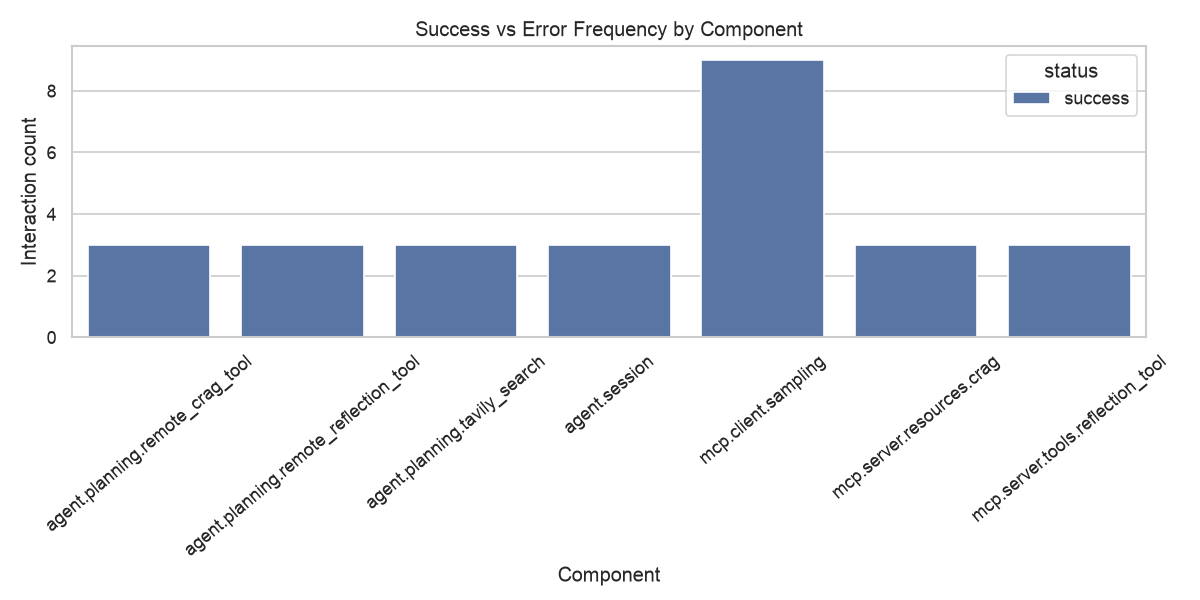
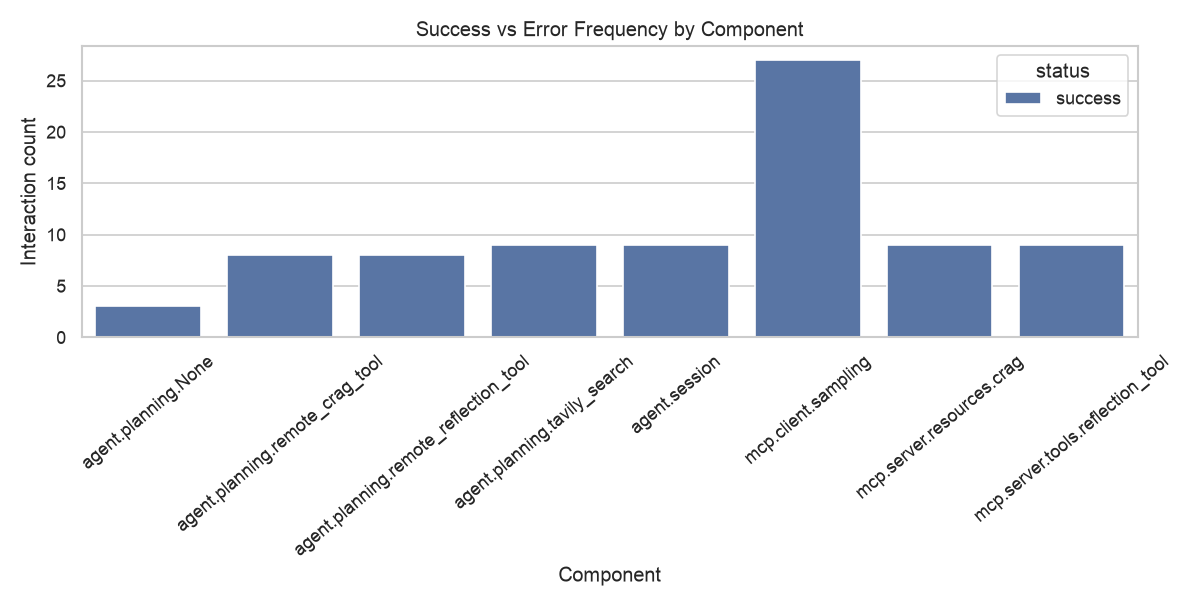
Stage 3: add screenshots index + README gallery; fix Streamlit width deprecation

diff --git a/analysis_dashboard/src/analysis_dashboard/app.py b/analysis_dashboard/src/analysis_dashboard/app.py
@@ -73,7 +73,7 @@ def _render_tool_result(name: str, content: str) -> None:
     chart_path = data.get("chart_path")
     st.json({k: v for k, v in data.items() if k != "by_component"})
     if chart_path and Path(chart_path).exists():
-        st.image(chart_path, caption=chart_path, use_container_width=True)
+        st.image(chart_path, caption=chart_path, width="stretch")
 
 
 def _run_and_render(agent, query: str) -> None:
@@ -133,7 +133,7 @@ with st.sidebar:
         "Check error frequency, then sync the knowledge graph to Neo4j and report committed nodes/edges.",
     ]
     for ex in examples:
-        if st.button(ex, use_container_width=True):
+        if st.button(ex, width="stretch"):
             st.session_state.pending = ex
 
 if "history" not in st.session_state:

diff --git a/screenshots/README.md b/screenshots/README.md
@@ -1,0 +1,18 @@
+# Stage 3 — Execution Screenshots
+
+Evidence of a successful end-to-end run of the distributed MCP system and the
+decoupled Log Analysis Agent. Each capture shows the executing machine's clock
+(top-right menu bar) to demonstrate chronological progress, per the task spec.
+
+Captured: **Sat 13 Jun 2026, 02:52–02:54**.
+
+| # | File | What it shows |
+|---|---|---|
+| 1 | `01-agent-client-trace.png` | **agent_client** multi-turn ReAct trace in the VS Code terminal — `Thought/Action/Observation` steps (`tavily_search` → `remote_crag_tool` → `remote_reflection_tool`) ending with `Agent session complete — vector logs → mcp_agent_log.db`. |
+| 2 | `02-mcp-server-protocol.png` | **mcp_server** streamable-http protocol logs — `POST /mcp 200 OK`, `ListToolsRequest`, the `reflection_tool` schema, and MCP Sampling round-trips. |
+| 3 | `03-analysis-agent-neo4j-commit.png` | **analysis-agent** terminal — `Building Log Analysis Agent`, `analyze_*` tool calls, `Connecting to Neo4j Aura`, `Neo4j projection committed | nodes=85 edges=107`, and `chart saved → charts/…`. |
+| 4 | `04-dashboard-latency-chart.png` | **Streamlit dashboard** — "Log store online", "Neo4j Aura configured", the rendered *Tool / Interaction Latency Trend* chart with the 10-step moving average, and the agent's diagnosis text. |
+| 5 | `05-neo4j-aura-graph.png` | **Neo4j Aura console** — the projected property graph: `(:Session)`, `(:AgentAction)`, `(:MCPServerCall)` nodes bound by `[:TRIGGERED]`, `[:ROUTED_TO]`, `[:DEPENDS_ON]` (85 nodes / 107 relationships). |
+
+> Save your 5 PNGs into this folder using the filenames in the table above so the
+> links in the root `README.md` resolve.

diff --git a/README.md b/README.md
@@ -254,6 +254,18 @@ RETURN s, a, c LIMIT 50;
 
 ---
 
+## Screenshots
+
+A successful end-to-end run (operational plane + analysis plane + Neo4j Aura),
+captured **Sat 13 Jun 2026, 02:52–02:54** with the machine clock visible. See
+[`screenshots/`](screenshots/) for the full index.
+
+| Agent client trace | Analysis agent → Neo4j commit | Dashboard latency chart | Neo4j Aura graph |
+|---|---|---|---|
+| ![client](screenshots/01-agent-client-trace.png) | ![analysis](screenshots/03-analysis-agent-neo4j-commit.png) | ![dashboard](screenshots/04-dashboard-latency-chart.png) | ![graph](screenshots/05-neo4j-aura-graph.png) |
+
+---
+
 ## Troubleshooting
 
 | Error | Fix |